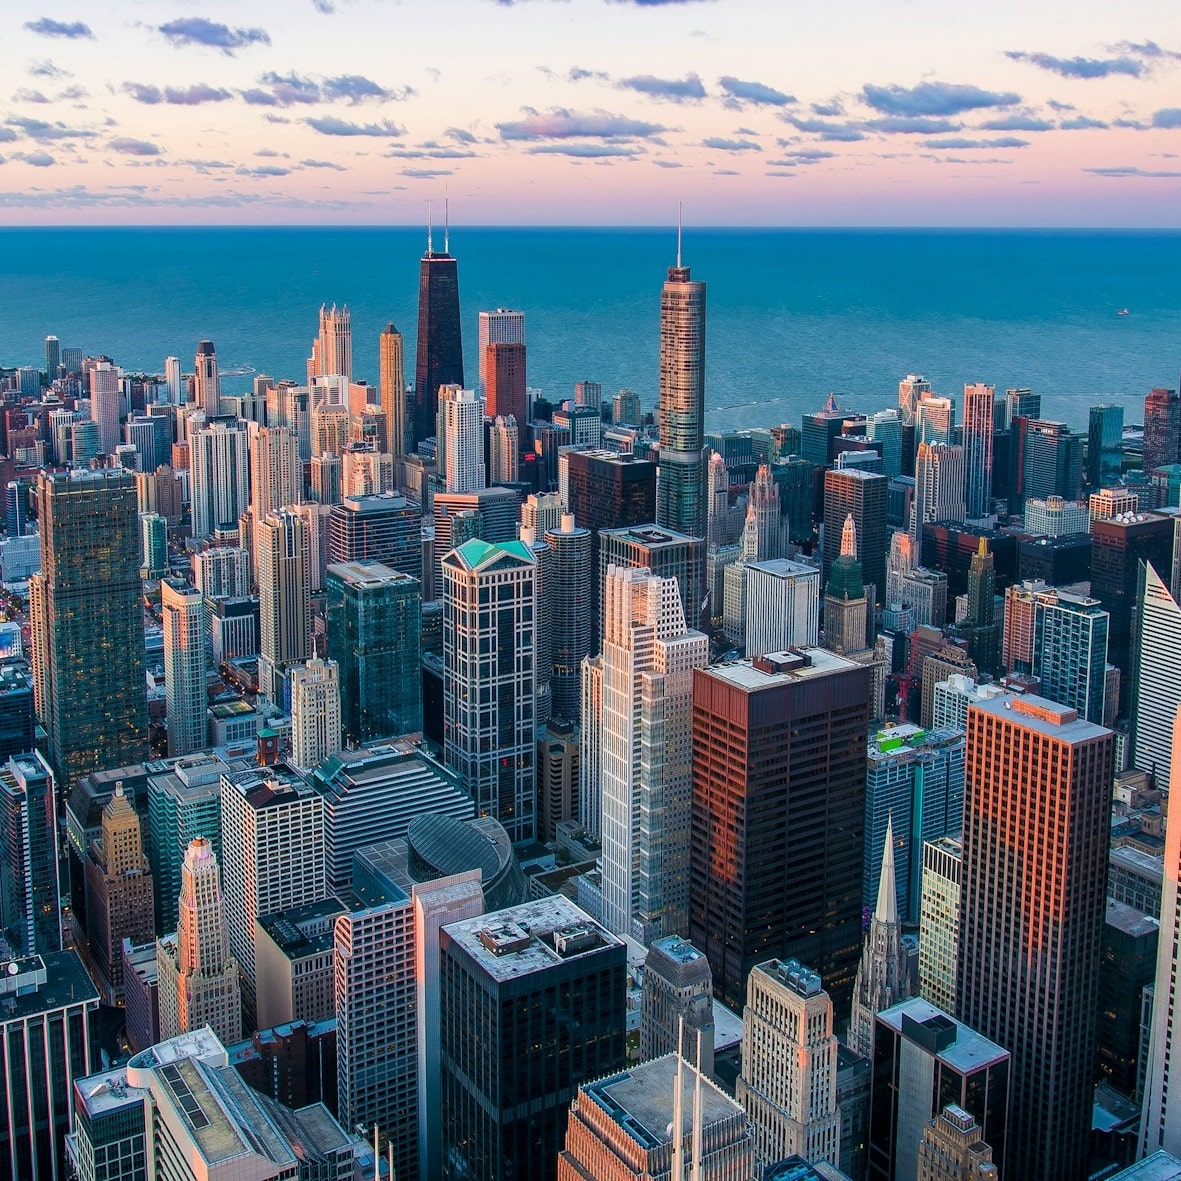
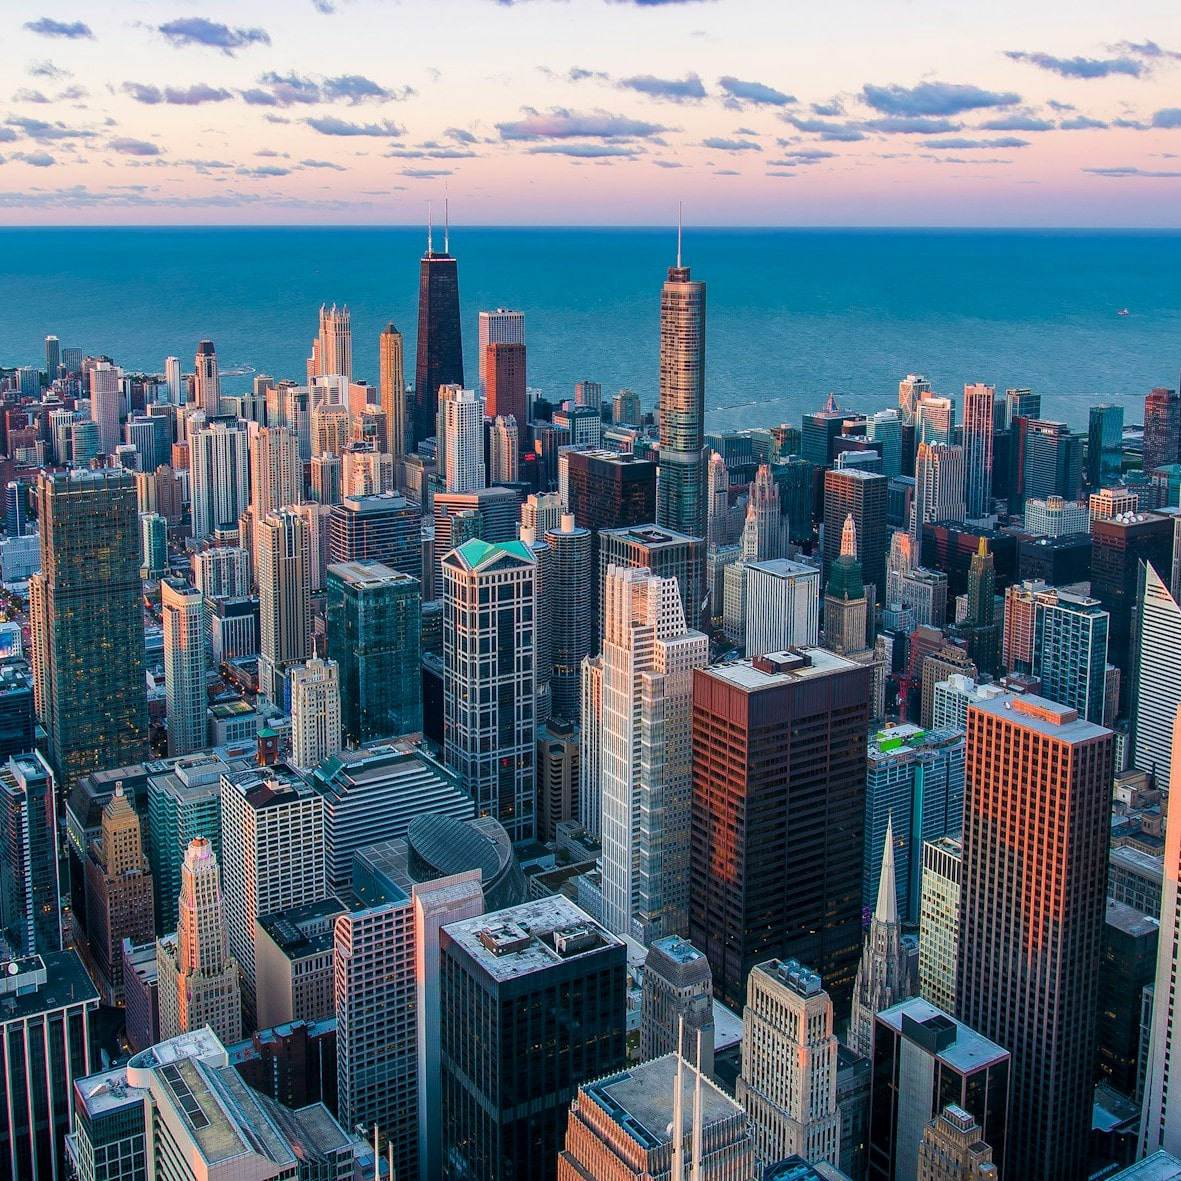
optimized images

diff --git a/src/pages/destinations/destinations.jsx b/src/pages/destinations/destinations.jsx
@@ -14,7 +14,7 @@ import NY from "../../assets/NY-min.jpg";
 
 import TravelCard from "./TravelCard.jsx";
 import PageTitle from "../../PageTitle.jsx";
-import headerBG from "../../assets/headerBG.png";
+import headerBG from "../../assets/headerBG.jpg";
 import { FaLocationDot } from "react-icons/fa6";
 import { IoMdArrowDropdown } from "react-icons/io";
 import Checklist from "./CheckList.jsx";
@@ -24,8 +24,8 @@ const travelData = [
     imageUrl: image1,
     country: "Turkey",
     city: "Istanbul",
-    days: 12,
-    price: 420,
+    days: 10,
+    price: 800,
     deal: "",
     description:
       "Lorem, ipsum dolor sit amet consectetur adipisicing elit.Hic facilis beatae deserunt porro nemo, numquam nesciunt cumque vero sequi nam rerum. Laudantium ipsum sed explicabo illo. Dolorem officiis quibusdam earum.",
@@ -34,8 +34,8 @@ const travelData = [
     imageUrl: Banff,
     country: "Canada",
     city: "Banff National Park",
-    days: 12,
-    price: 420,
+    days: 8,
+    price: 340,
     deal: "",
     description:
       "Lorem, ipsum dolor sit amet consectetur adipisicing elit.Hic facilis beatae deserunt porro nemo, numquam nesciunt cumque vero sequi nam rerum. Laudantium ipsum sed explicabo illo. Dolorem officiis quibusdam earum.",
@@ -44,8 +44,8 @@ const travelData = [
     imageUrl: Great_Barrier_Reef,
     country: "Australia",
     city: "Great Barrier Reef",
-    days: 12,
-    price: 420,
+    days: 6,
+    price: 500,
     deal: "",
     description:
       "Lorem, ipsum dolor sit amet consectetur adipisicing elit.Hic facilis beatae deserunt porro nemo, numquam nesciunt cumque vero sequi nam rerum. Laudantium ipsum sed explicabo illo. Dolorem officiis quibusdam earum.",
@@ -54,8 +54,8 @@ const travelData = [
     imageUrl: Mount_Everest_BaseCamp,
     country: "Nepal",
     city: "Mount Everest Base Camp",
-    days: 12,
-    price: 420,
+    days: 8,
+    price: 800,
     deal: "",
     description:
       "Lorem, ipsum dolor sit amet consectetur adipisicing elit.Hic facilis beatae deserunt porro nemo, numquam nesciunt cumque vero sequi nam rerum. Laudantium ipsum sed explicabo illo. Dolorem officiis quibusdam earum.",
@@ -64,8 +64,8 @@ const travelData = [
     imageUrl: Northern_Lights,
     country: "Norway",
     city: "Northern Lights",
-    days: 12,
-    price: 420,
+    days: 8,
+    price: 600,
     deal: "",
     description:
       "Lorem, ipsum dolor sit amet consectetur adipisicing elit.Hic facilis beatae deserunt porro nemo, numquam nesciunt cumque vero sequi nam rerum. Laudantium ipsum sed explicabo illo. Dolorem officiis quibusdam earum.",
@@ -75,7 +75,7 @@ const travelData = [
     country: "USA",
     city: "NY",
     days: 12,
-    price: 420,
+    price: 920,
     deal: "",
     description:
       "Lorem, ipsum dolor sit amet consectetur adipisicing elit.Hic facilis beatae deserunt porro nemo, numquam nesciunt cumque vero sequi nam rerum. Laudantium ipsum sed explicabo illo. Dolorem officiis quibusdam earum.",
@@ -85,7 +85,7 @@ const travelData = [
     country: "Italy",
     city: "rome",
     days: 12,
-    price: 420,
+    price: 432,
     deal: "",
     description:
       "Lorem, ipsum dolor sit amet consectetur adipisicing elit.Hic facilis beatae deserunt porro nemo, numquam nesciunt cumque vero sequi nam rerum. Laudantium ipsum sed explicabo illo. Dolorem officiis quibusdam earum.",
@@ -94,8 +94,8 @@ const travelData = [
     imageUrl: Salar_de_Uyuni,
     country: "Bolivia",
     city: "Salar de Uyuni",
-    days: 12,
-    price: 420,
+    days: 30,
+    price: 1000,
     deal: "",
     description:
       "Lorem, ipsum dolor sit amet consectetur adipisicing elit.Hic facilis beatae deserunt porro nemo, numquam nesciunt cumque vero sequi nam rerum. Laudantium ipsum sed explicabo illo. Dolorem officiis quibusdam earum.",
@@ -104,8 +104,8 @@ const travelData = [
     imageUrl: shanghai,
     country: "China",
     city: "shanghai",
-    days: 12,
-    price: 420,
+    days: 22,
+    price: 600,
     deal: "",
     description:
       "Lorem, ipsum dolor sit amet consectetur adipisicing elit.Hic facilis beatae deserunt porro nemo, numquam nesciunt cumque vero sequi nam rerum. Laudantium ipsum sed explicabo illo. Dolorem officiis quibusdam earum.",
@@ -114,8 +114,8 @@ const travelData = [
     imageUrl: Swiss_Alps,
     country: "Switzerland",
     city: "Swiss Alps",
-    days: 12,
-    price: 420,
+    days: 10,
+    price: 700,
     deal: "",
     description:
       "Lorem, ipsum dolor sit amet consectetur adipisicing elit.Hic facilis beatae deserunt porro nemo, numquam nesciunt cumque vero sequi nam rerum. Laudantium ipsum sed explicabo illo. Dolorem officiis quibusdam earum.",

diff --git a/src/pages/home/Hero.jsx b/src/pages/home/Hero.jsx
@@ -1,4 +1,4 @@
-import image from "../../assets/imageHero.png";
+import image from "../../assets/seashore-during-golden-hour.jpg";
 import CTAbtn from "../../CTAbtn";
 export default function Hero() {
   return (
@@ -7,7 +7,7 @@ export default function Hero() {
       style={{ backgroundImage: `url(${image})` }}
     >
       {/* dark overlay */}
-      {/* <div className="absolute inset-0 bg-black bg-opacity-50"></div> */}
+      <div className="absolute inset-0 bg-black bg-opacity-50"></div>
 
       <div className="relative z-10 flex flex-col items-center justify-center h-full text-center text-white px-4">
         <h1 className="text-4xl md:text-6xl font-bold mb-4">

diff --git a/src/pages/home/Home.jsx b/src/pages/home/Home.jsx
@@ -1,7 +1,7 @@
 import About from "./About";
 import Hero from "./Hero";
 import Feature from "./Feature";
-import img1 from "../../assets/feature1.png";
+import img1 from "../../assets/beautiful-city-of-Chefchaouen-Morocco.jpg";
 import img2 from "../../assets/feature2.png";
 import img3 from "../../assets/feature3.png";
 import Benefits from "./Benefits";

diff --git a/src/pages/Contact.jsx b/src/pages/Contact.jsx
@@ -1,7 +1,6 @@
 import PageTitle from "../PageTitle";
-import BgImage from "../assets/headerBG.png";
-import { FaHandPointRight } from "react-icons/fa";
-
+import BgImage from "../assets/headerBG.jpg";
+import { FaHandPointRight } from "react-icons/fa6";
 export default function Contact() {
   return (
     <section>

diff --git a/src/pages/faq.jsx b/src/pages/faq.jsx
@@ -1,6 +1,6 @@
 import { useState } from "react";
 import PageTitle from "../PageTitle";
-import headerImg from "../assets/headerBG.png";
+import headerImg from "../assets/headerBG.jpg";
 import { IoMdArrowDropdown } from "react-icons/io";
 
 const QuestionBlock = ({ question, answer }) => {

diff --git a/src/pages/About.jsx b/src/pages/About.jsx
@@ -1,5 +1,5 @@
 import PageTitle from "../PageTitle";
-import bgImage from "../assets/headerBG.png";
+import bgImage from "../assets/headerBG.jpg";
 import placeHolderImage from "../assets/personPlaceHolder.png";
 export default function About() {
   return (

diff --git a/src/pages/home/Cta.jsx b/src/pages/home/Cta.jsx
@@ -1,5 +1,5 @@
 import CTAbtn from "../../CTAbtn";
-import seaImage from "../../assets/seaImage.png";
+import seaImage from "../../assets/seaImage.jpg";
 export default function Cta() {
   return (
     <section
